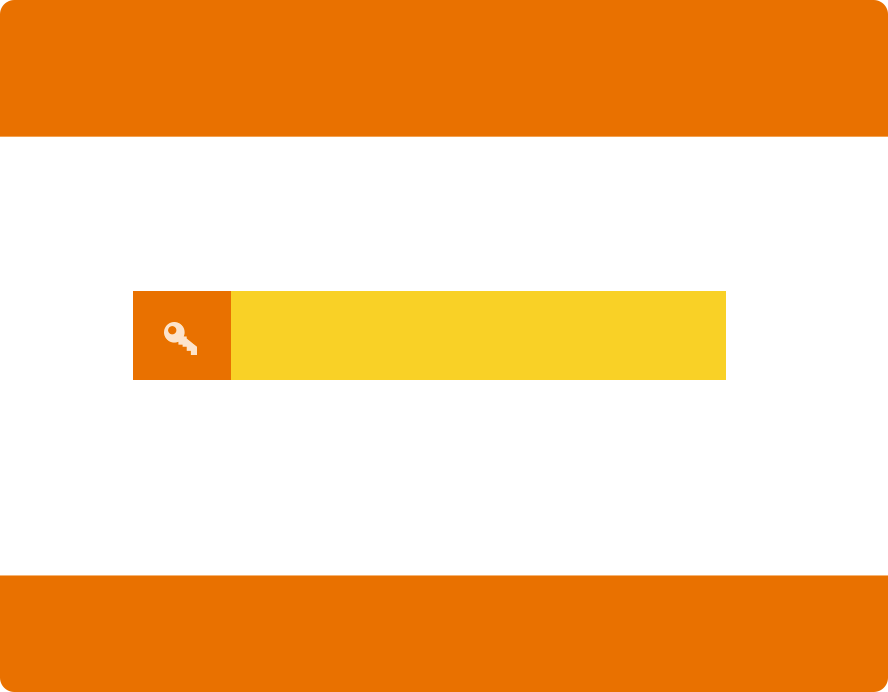
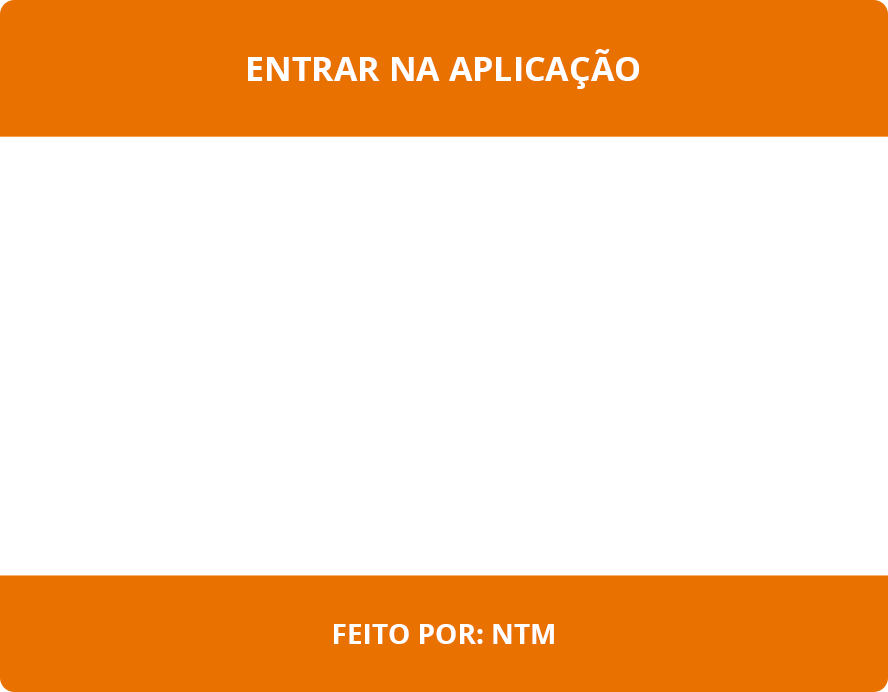
finalização do layout de login

Changed region(s): [[0.152, 0.3945, 0.8209, 0.5462], [0.2736, 0.0607, 0.7297, 0.1214], [0.3649, 0.8801, 0.6385, 0.9408]]

diff --git a/assets/css/app.css b/assets/css/app.css
@@ -58,6 +58,7 @@ body, html{
     margin: 30vh auto 0;
     height: 45vw;
     width: 58vw;
+	padding: 0.1px;
 }
 #outdiv{
 	z-index: 49;
@@ -240,14 +241,28 @@ h3{
 	background: #4578a0;
 }
 #hash_pw{
-	margin-top: 14.2vh;
 	height: 4.4vh;
 	width:  32vw;
 	margin-left: 4.4vw;
-	background-color: transparent;
+	background-color: #eed03e;
 	padding: 1vh 2vw;
 	color: white;
 	font-size: 2vmax;
+}
+#login div label{
+	display: inline-block;
+	background-color: #e97100;
+	margin-top: 14.2vh;
+	position: relative;
+}
+#login div label::before{
+	content: "";
+	position: absolute;
+	left: 0;
+	height: 100%;
+	width: 8vw;
+	background: url("../img/login_symbol.png") #e97100 no-repeat center center;
+	background-size: contain;
 }
 #hash_pw::-webkit-input-placeholder{
 	color: white;
@@ -256,7 +271,7 @@ h3{
 #entrar{
 	font-weight: lighter;    
 	font-size: 2.5vw;
-	margin-top:  2vh;
+	margin-top:  1.1vh;
     color: white;
     background-color: #e97100;
     padding: 1vh 3vw;

diff --git a/index.html b/index.html
@@ -14,7 +14,7 @@
 <div id="todo">
   <section id="login" class="caixa-input"  data-status="step-atual">
     <div> 
-      <input placeholder="hash de segurança" type="password" name="hash" id="hash_pw"><br>
+      <label>Entrar<input placeholder="hash de segurança" type="password" name="hash" id="hash_pw"></label><br>
       <button type="button" name="entrar" id="entrar">Entrar</button>
     </div>
   </section>
